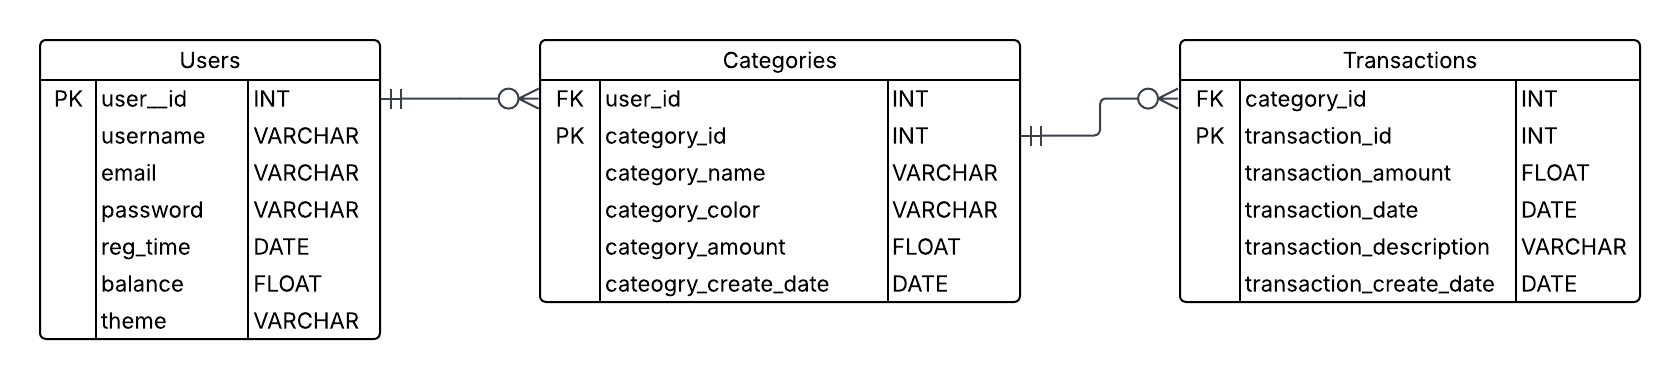
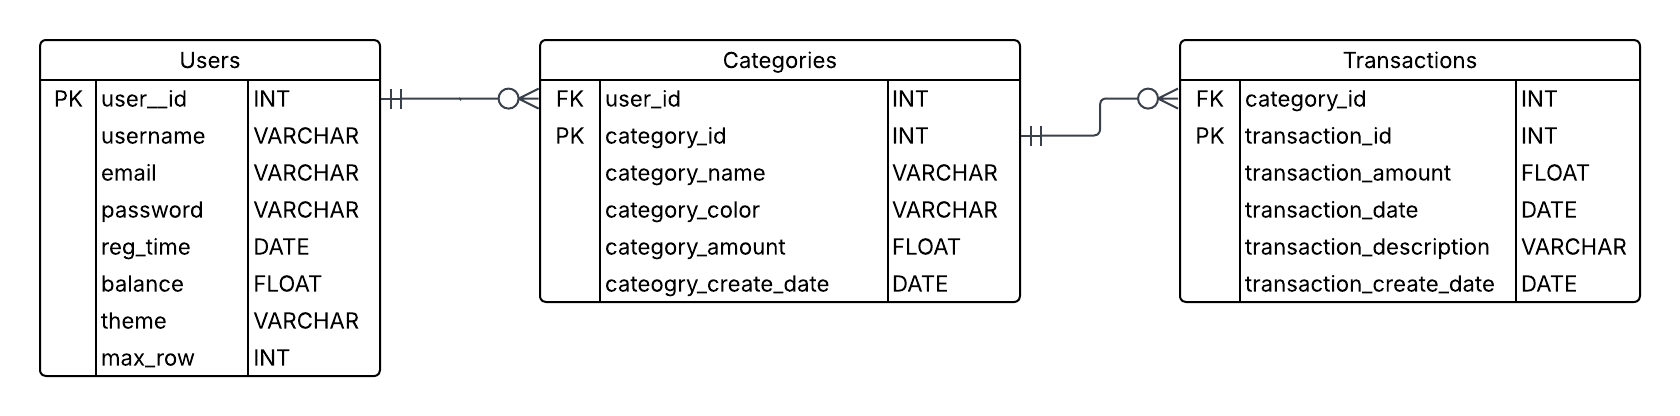
final?

diff --git a/profile.php b/profile.php
@@ -104,23 +104,23 @@
     
     <h1 class="mt-5 mb-4">Preferences</h1>
     
-    <form method="post" action="" class="mb-4">
+    <form method="post" action="actions/profile/max_rows_action.php" class="mb-4">
         <div class="dropdown mb-3 dropend">
             <button type="button" class="btn btn-primary dropdown-toggle" data-bs-toggle="dropdown">
                 Max Rows: <?= $maxRows ?>
             </button>
             <ul class="dropdown-menu">
                 <?php foreach ([10, 25, 50, 100] as $opt): ?>
-                <li>
-                    <a class="dropdown-item <?= $opt == $maxRows ? 'active' : '' ?>" href="?max_rows=<?= $opt ?>">
-                    <?= $opt ?>
-                    </a>
-                </li>
+                    <li>
+                        <button type="submit" name="max_rows" value="<?= $opt ?>" 
+                                class="dropdown-item <?= $opt == $maxRows ? 'active' : '' ?>">
+                            <?= $opt ?>
+                        </button>
+                    </li>
                 <?php endforeach; ?>
             </ul>
         </div>
     </form>
-
 
     <form id="darkmode-form" action="actions/profile/toggle_theme_action.php" method="post">
         <div class="form-check form-switch">
@@ -205,7 +205,7 @@
                     </div>
                 </div>
                 <div class="modal-footer">
-                    <button type="submit" class="btn btn-danger" onsubmit="return confirm('Are you sure you want to delete your account? This cannot be undone.');">Delete</button>
+                    <button type="submit" class="btn btn-danger">Delete</button>
                 </div>
             </form>
         </div>

diff --git a/actions/profile/max_rows_action.php b/actions/profile/max_rows_action.php
@@ -1,0 +1,19 @@
+<?php
+session_start();
+include '../../includes/connect_db.php';
+
+if (isset($_POST['max_rows'])) {
+    $maxRows = intval($_POST['max_rows']);
+    $username = $_SESSION['username'];
+
+    $_SESSION['max_rows'] = $maxRows;
+
+    $stmt = $conn->prepare("UPDATE users SET max_rows = ? WHERE username = ?");
+    $stmt->bind_param("is", $maxRows, $username);
+    $stmt->execute();
+    $stmt->close();
+}
+
+header("Location: ../../profile.php");
+exit;
+?>

diff --git a/actions/profile/delete_account_action.php b/actions/profile/delete_account_action.php
@@ -42,7 +42,6 @@ if ($_SERVER["REQUEST_METHOD"] === "POST") {
     $deleteUser->execute();
     $deleteUser->close();
 
-    // Logout and redirect
     session_unset();
     session_destroy();
     header("Location: ../../index.php");

diff --git a/actions/account/sign_up_action.php b/actions/account/sign_up_action.php
@@ -2,7 +2,6 @@
 session_start();
 include '../../includes/connect_db.php';
 
-// examples
 $categories = [
     ['Income', '#1F7D53', 0],
     ['Food', '#F0A04B', 0],
